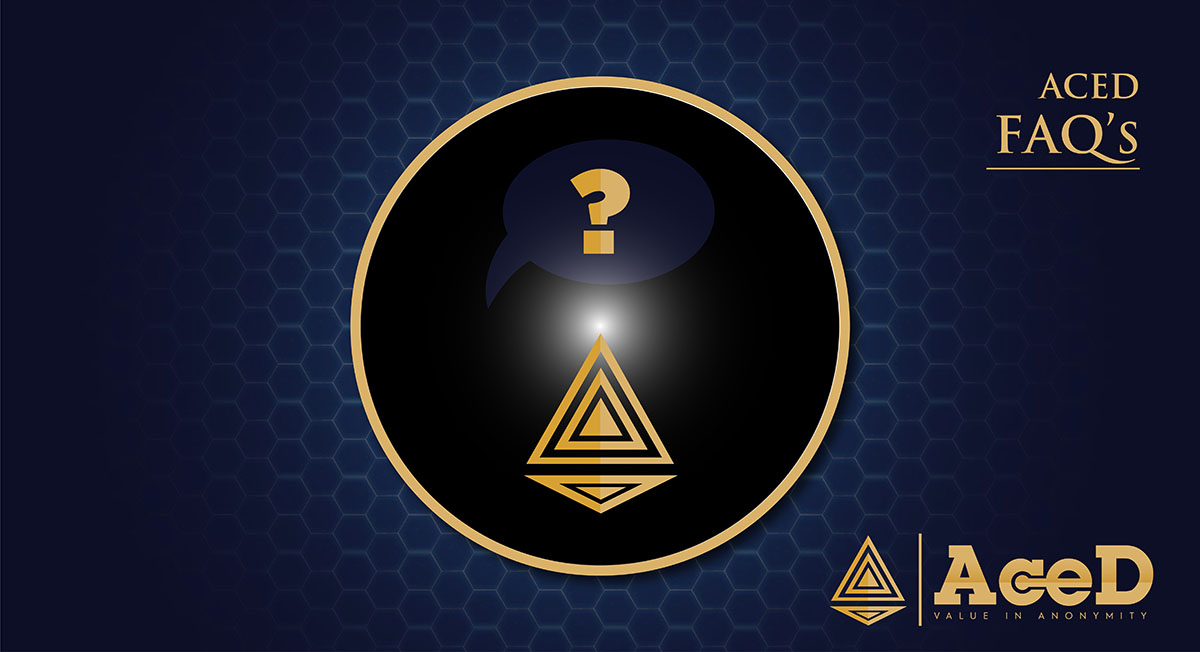
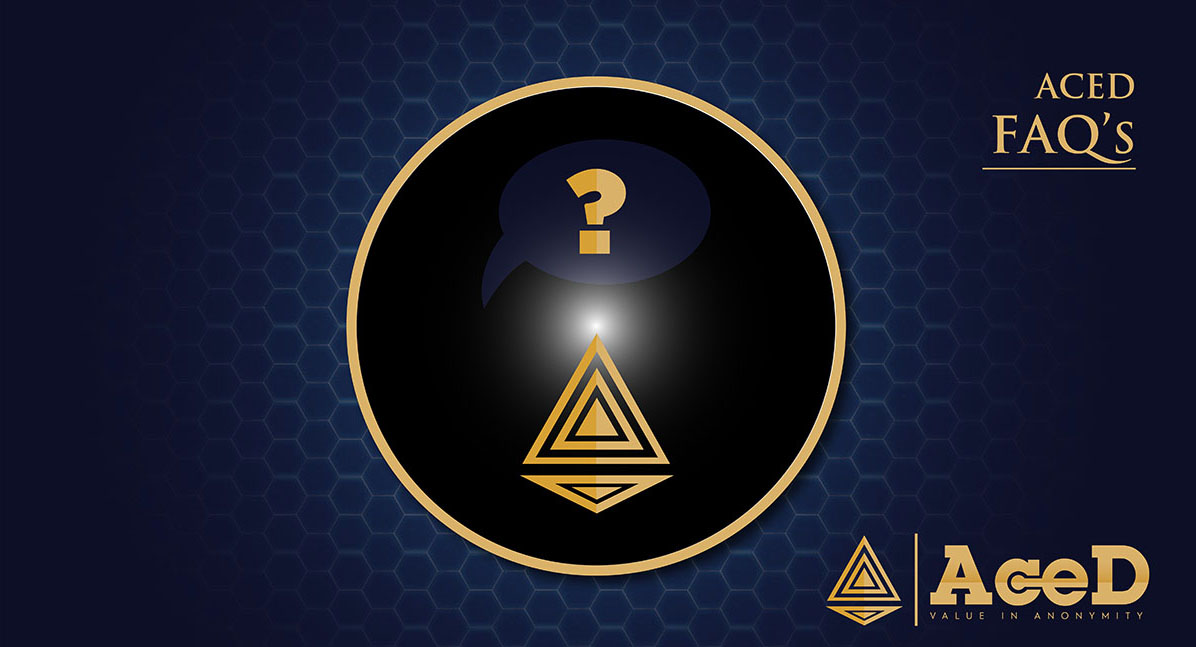
update

diff --git a/index.html b/index.html
@@ -488,9 +488,9 @@
 
                                             <figure class="wpb_wrapper vc_figure">
                                                 <div class="vc_single_image-wrapper   vc_box_border_grey"><a href="https://github.com/Acedcoin/AceD/releases/tag/1.4"><img
-                                                        width="900" height="675" src="3_Image-066.jpg"
+                                                        width="900" height="675" src="3_Image-066.png"
                                                         class="vc_single_image-img attachment-full" alt=""
-                                                        srcset="3_Image-066.jpg 900w, 3_Image-066.jpg 300w, 3_Image-066.jpg 768w"
+                                                        srcset="3_Image-066.png 900w, 3_Image-066.png 300w, 3_Image-066.png 768w"
                                                         sizes="(max-width: 900px) 100vw, 900px"></a></div>
                                             </figure>
                                         </div>
@@ -603,10 +603,10 @@
                                         <div class="wpb_single_image wpb_content_element vc_align_center">
 
                                             <figure class="wpb_wrapper vc_figure">
-                                                <div class="vc_single_image-wrapper   vc_box_border_grey"><img
-                                                        width="675" height="653" src="3_Image-01.jpg"
+                                                <div class="vc_single_image-wrapper   vc_box_border_grey"><img style="    border-radius: 17px;"
+                                                        width="675" height="653" src="3_Image-02.jpg"
                                                         class="vc_single_image-img attachment-full" alt=""
-                                                        srcset="3_Image-01.jpg 675w, 3_Image-01.jpg 300w"
+                                                        srcset="3_Image-02.jpg 675w, 3_Image-02.jpg 300w"
                                                         sizes="(max-width: 675px) 100vw, 675px"></div>
 
                                             </figure>
@@ -624,7 +624,7 @@
     </div>
     <div class="clearfix"></div>
 </section>
-<section id="roadmap" class="vc_rows wpb_row vc_row-fluid section-pad section-bg section-connect">
+<section id="roadmap" class="vc_rows wpb_row vc_row-fluid section-pad section-bg section-connect" style="background: #12132f;">
     <div class="container">
         <div class="row">
             <div class="wpb_column vc_column_container vc_col-sm-12">
@@ -986,7 +986,7 @@
     </div>
     <div class="clearfix"></div>
 </section>
-<section id="faqs" class="vc_rows wpb_row vc_row-fluid section-pad no-pb">
+<section id="faqs" class="vc_rows wpb_row vc_row-fluid section-pad no-pb" style="background: #0d0f26;">
     <div class="container">
         <div class="row">
             <div class="wpb_column vc_column_container vc_col-sm-12  vc_col-md-offset-2 vc_col-md-8">
@@ -1353,7 +1353,7 @@
                                             <div class="wpb_wrapper">
                                                 <ul class="contact-info">
                                                     <li><em class="fa fa-envelope" aria-hidden="true">email</em>info@acedcoin.com</li>
-                                                    <li><a href="https://discord.gg/yMTRTsj" style="vertical-align: middle;"><img src="discord.png" style="margin:0 17px;"><span style="color: white;">Join us on discord</span></a></li>
+                                                    <li><a href="https://discord.gg/yMTRTsj" style="vertical-align: middle;"><img src="discord.png" style="margin:0 17px 15px;"><span style="color: white;">Join us on discord</span></a></li>
                                                 </ul>
                                             </div>
                                         </div>

diff --git a/style.css b/style.css
@@ -2021,6 +2021,11 @@ div.vc_toggle.vc_toggle_arrow.vc_toggle_active h4{
   position: relative;
   z-index: 9;
 }
+@media(min-width: 1200px) {
+  .contact-info li {
+     margin: 0 91px;
+  }
+}
 @media(max-width: 1550px){
   .subparticle{
     left: 12%;
